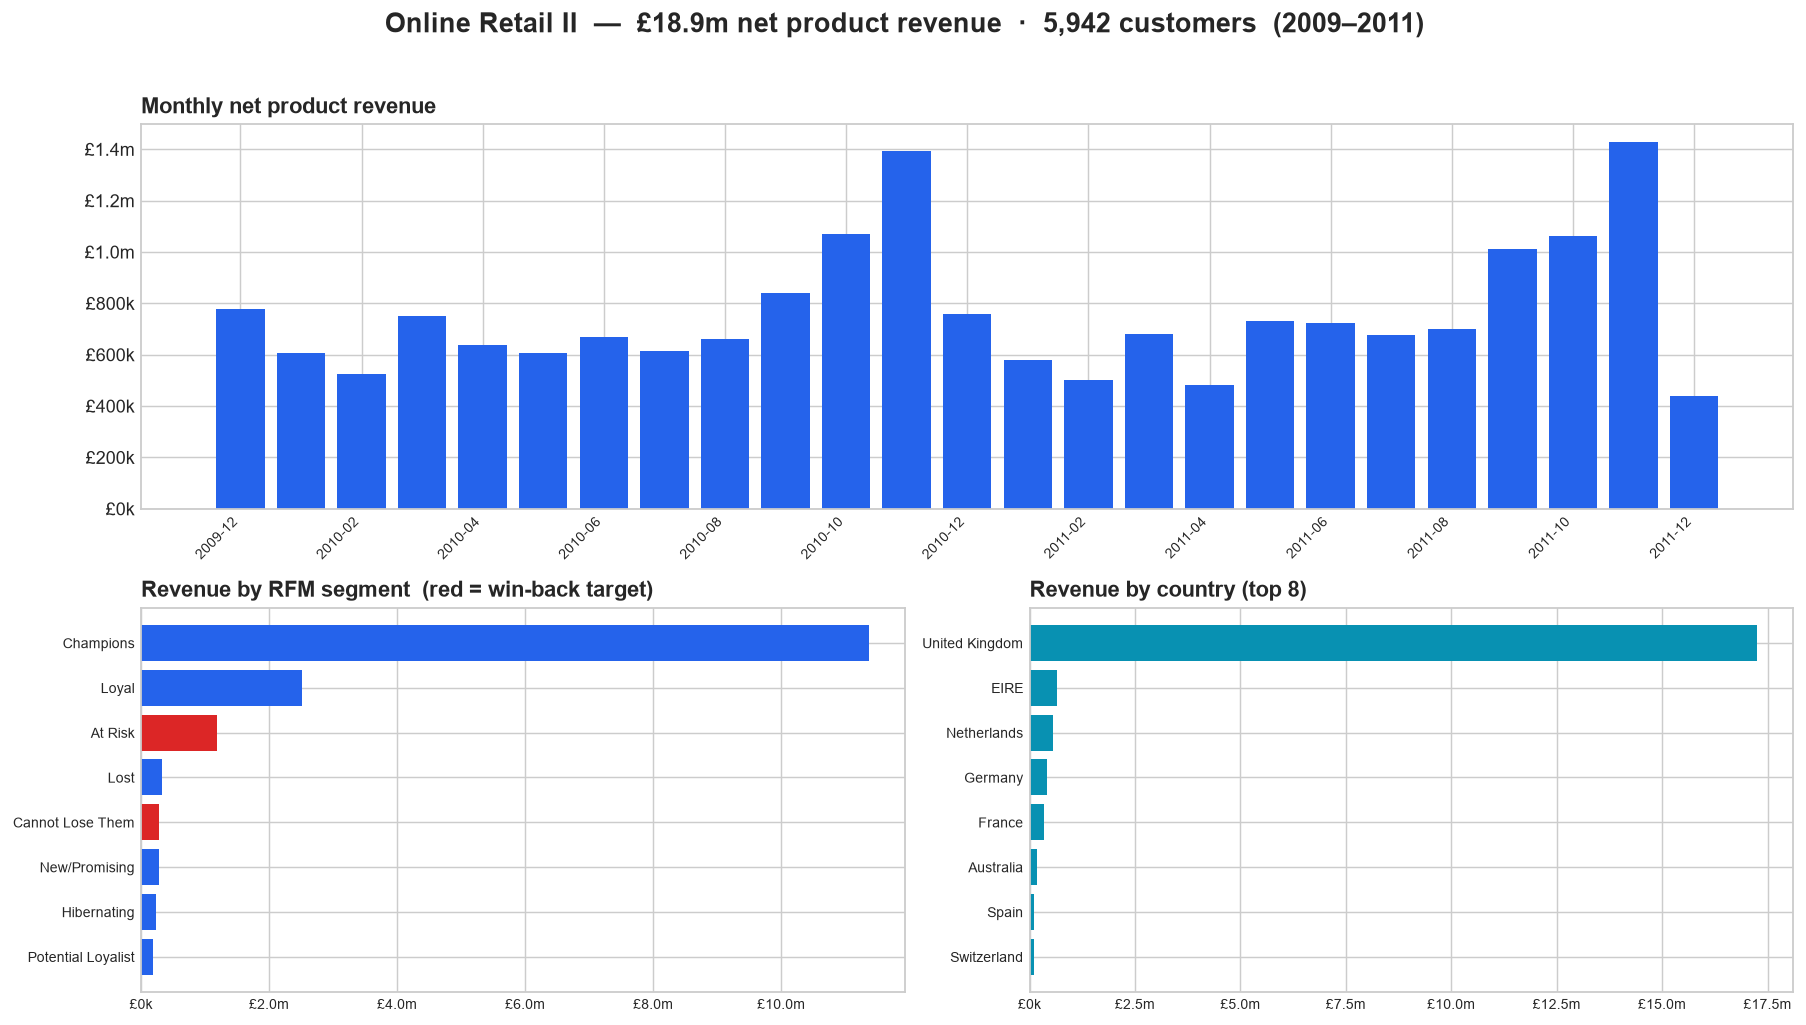
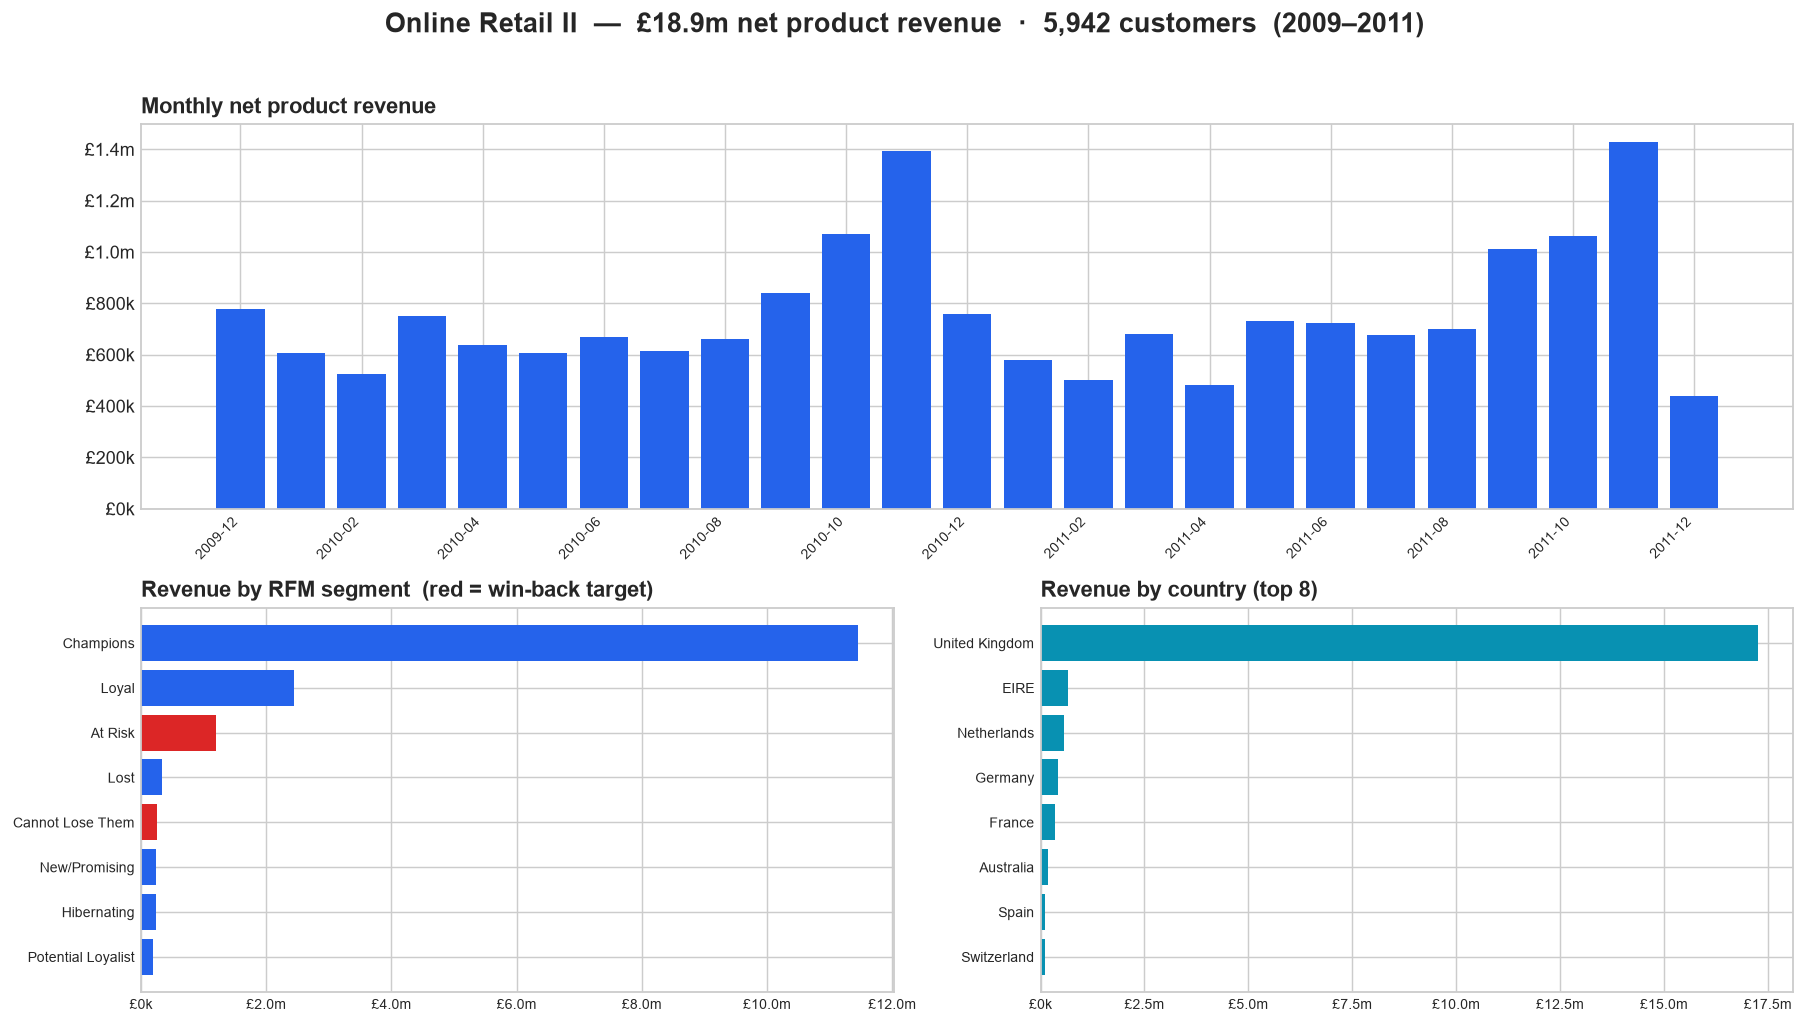
Make RFM segmentation deterministic and reconcile analysis figures
Add a unique tiebreaker (customer_sk) to the NTILE quintile ordering so
segment boundaries are stable across runs; update the written figures,
memo and dashboard to the reproducible output (win-back cohort = 839
customers, ~£1.45m).

diff --git a/local/rfm_analysis.py b/local/rfm_analysis.py
@@ -52,9 +52,11 @@ base AS (
 ),
 scored AS (
   SELECT *,
-    6 - NTILE(5) OVER (ORDER BY recency_days)              AS r,   -- recent -> 5
-    NTILE(5) OVER (ORDER BY frequency)                    AS f,
-    NTILE(5) OVER (ORDER BY monetary)                     AS m
+    -- customer_sk is a deterministic tiebreaker so quintile boundaries are
+    -- stable across runs (NTILE otherwise splits ties in engine order).
+    6 - NTILE(5) OVER (ORDER BY recency_days, customer_sk)  AS r,   -- recent -> 5
+    NTILE(5) OVER (ORDER BY frequency, customer_sk)         AS f,
+    NTILE(5) OVER (ORDER BY monetary, customer_sk)          AS m
   FROM base
 )
 SELECT *,

diff --git a/app/app.py b/app/app.py
@@ -35,9 +35,9 @@ with base as (
 ),
 scored as (
   select *,
-    6 - ntile(5) over (order by recency_days) as r,
-    ntile(5) over (order by frequency)        as f,
-    ntile(5) over (order by monetary)         as m
+    6 - ntile(5) over (order by recency_days, customer_sk) as r,
+    ntile(5) over (order by frequency, customer_sk)        as f,
+    ntile(5) over (order by monetary, customer_sk)         as m
   from base
 )
 select *,

diff --git a/local/make_dashboard.py b/local/make_dashboard.py
@@ -21,11 +21,13 @@ OUT = ROOT / "docs" / "dashboard.png"
 
 RFM = """
 with base as (
-  select date_diff('day', last_purchase_date,
+  select customer_sk,
+         date_diff('day', last_purchase_date,
            (select max(last_purchase_date)+interval 1 day from online_retail.dim_customer)) recency_days,
          lifetime_orders frequency, lifetime_net_revenue monetary
   from online_retail.dim_customer where lifetime_orders>0 and lifetime_net_revenue>0),
-scored as (select *, 6-ntile(5) over(order by recency_days) r, ntile(5) over(order by frequency) f from base)
+scored as (select *, 6-ntile(5) over(order by recency_days, customer_sk) r,
+                     ntile(5) over(order by frequency, customer_sk) f from base)
 select case
   when r>=4 and f>=4 then 'Champions' when r>=3 and f>=3 then 'Loyal'
   when r>=4 and f<=2 then 'New/Promising' when r=3 and f<=2 then 'Potential Loyalist'

diff --git a/analysis_answers.md b/analysis_answers.md
@@ -15,8 +15,8 @@ is attributable to a known customer and **£2.6m (14%)** is guest/unattributed.
 
 ### Insight 1 — Revenue is extremely concentrated: a small core carries the business
 - **Finding:** The top 20% of purchasing customers generate **76.7%** of net
-  revenue. One RFM segment — **Champions** (1,369 customers, ~23% of buyers) —
-  alone accounts for **69.5%** of revenue (£11.4m).
+  revenue. One RFM segment — **Champions** (1,435 customers, ~24% of buyers) —
+  alone accounts for **70.0%** of revenue (£11.5m).
 - **Method:** RFM scoring (Recency, Frequency, Monetary into quintiles) on
   `dim_customer`, plus a Pareto/quintile revenue-share calculation.
 - **Why care:** The commercial risk here is **retention, not acquisition**. If a
@@ -33,10 +33,10 @@ is attributable to a known customer and **£2.6m (14%)** is guest/unattributed.
   worth far more than the same % lift in new-customer count.
 
 ### Insight 3 — There is a large, recoverable "at-risk" cohort
-- **Finding:** **867 customers** fall into **At Risk + Cannot Lose Them** — people
-  who historically ordered **6+ times** and averaged **£1,691** net spend, but
-  whose **last purchase was ~12 months ago** (avg recency 362 days). Collectively
-  they represent **£1.47m** of historical revenue that is quietly lapsing.
+- **Finding:** **839 customers** fall into **At Risk + Cannot Lose Them** — people
+  who historically ordered **6+ times** and averaged **£1,728** net spend, but
+  whose **last purchase was ~12 months ago** (avg recency 361 days). Collectively
+  they represent **£1.45m** of historical revenue that is quietly lapsing.
 - **Method:** RFM recency segmentation — high Frequency/Monetary, low Recency.
 - **Why care:** This is the single most **actionable** finding: a specific,
   sizeable, previously-proven set of buyers, addressable by name, drifting away.
@@ -45,12 +45,12 @@ is attributable to a known customer and **£2.6m (14%)** is guest/unattributed.
 
 ## 2. The recommendation — a targeted win-back campaign
 
-**Run a win-back campaign against the 867 lapsed high-value customers
+**Run a win-back campaign against the 839 lapsed high-value customers
 (At Risk + Cannot Lose Them).**
 
-- **Target segment (who, and how identified):** The 867 customers scored
+- **Target segment (who, and how identified):** The 839 customers scored
   RFM-low on Recency but high on Frequency & Monetary — i.e. proven repeat buyers
-  (avg 6.1 lifetime orders, avg £1,691 net spend) who have not ordered in ~12
+  (avg 6.2 lifetime orders, avg £1,728 net spend) who have not ordered in ~12
   months. Pulled directly from `online_retail.rfm` where
   `segment IN ('At Risk','Cannot Lose Them')`.
 - **Mechanic / offer:** A personalised win-back email (and where a phone/account
@@ -59,15 +59,15 @@ is attributable to a known customer and **£2.6m (14%)** is guest/unattributed.
   weeks* (or free postage, which this business already itemises). Incentive is
   paid only on redemption, so cost scales with success.
 - **Expected commercial impact (with assumptions stated):** Win-back campaigns to
-  *known, previously-active* buyers typically reactivate **8–12%**. On 867
-  targets that is **~70–104 reactivations**. Segment average order value is
-  **~£277** (£1,691 ÷ 6.1 orders). A conservative "one order back" gives
-  **£19k–£29k** of incremental revenue in the first ~8 weeks. If even a third of
+  *known, previously-active* buyers typically reactivate **8–12%**. On 839
+  targets that is **~67–101 reactivations**. Segment average order value is
+  **~£280** (£1,728 ÷ 6.2 orders). A conservative "one order back" gives
+  **£19k–£28k** of incremental revenue in the first ~8 weeks. If even a third of
   reactivations resume their historical cadence, the annualised value runs into
   **six figures** against a near-zero marginal email cost. *Assumptions: 8–12%
-  reactivation, £277 AOV held, 15% discount on redeemed orders only.*
+  reactivation, £280 AOV held, 15% discount on redeemed orders only.*
 - **Measurement (how we'd know within N weeks):** **Randomised holdout.** Hold
-  back 20% of the 867 as an untouched control; send to the other 80%. Over an
+  back 20% of the 839 as an untouched control; send to the other 80%. Over an
   **8-week** window compare, treatment vs control: (1) reactivation rate
   (% placing ≥1 order), (2) revenue per targeted customer, (3) margin after
   discount. **Success = treatment reactivation rate exceeds control by ≥3–5pp
@@ -142,10 +142,10 @@ is attributable to a known customer and **£2.6m (14%)** is guest/unattributed.
 > is a **repeat-purchase business** (76% of buyers reorder). That reframes the
 > priority as **retention over acquisition**.
 >
-> We found **867 previously high-value customers — worth £1.47m historically —
+> We found **839 previously high-value customers — worth £1.45m historically —
 > who have stopped ordering in the last year.** 
 >
-> **Recommended next step:** a targeted win-back campaign to those 867, measured
+> **Recommended next step:** a targeted win-back campaign to those 839, measured
 > against a randomised holdout so we can prove the incremental effect within 8
 > weeks. Near-zero cost, and even a conservative 10% reactivation returns tens of
 > thousands in the first two months. We can launch this week.

diff --git a/write_up.md b/write_up.md
@@ -42,28 +42,28 @@ tests that stop bad data reaching a report.
 **Net product revenue over the two years: £18.9m.** Three findings stand out:
 
 1. **The business runs on a small core.** The **top 20% of customers drive 77%**
-   of revenue. One group — our "Champions" — is **~23% of buyers but 70% of
+   of revenue. One group — our "Champions" — is **~24% of buyers but 70% of
    revenue**.
 2. **Customers come back.** **76% of buyers reorder.** This is a repeat-purchase
    business, so the growth lever is keeping people buying, not just finding new
    ones.
-3. **A valuable group is quietly leaving.** **867 customers** who used to order
+3. **A valuable group is quietly leaving.** **839 customers** who used to order
    6+ times and spend ~£1,700 each **haven't bought in about a year** — roughly
-   **£1.47m** of historical revenue drifting out the door.
+   **£1.45m** of historical revenue drifting out the door.
 
 ---
 
 ## 4. The recommendation
 
-**Win back those 867 lapsed high-value customers.**
+**Win back those 839 lapsed high-value customers.**
 
-- **Who:** the 867 proven repeat buyers who've gone quiet (~12 months silent).
+- **Who:** the 839 proven repeat buyers who've gone quiet (~12 months silent).
 - **What:** a personalised win-back email referencing what they used to buy, with
   a short-dated incentive (e.g. *15% off your next order over £150*).
 - **Why it's low-risk:** email costs almost nothing, and the discount is only paid
   when someone actually comes back.
-- **Likely payoff:** a conservative **10% reactivation** is ~87 customers and
-  **£19k–£29k in the first two months**, with much more if they resume their old
+- **Likely payoff:** a conservative **10% reactivation** is ~84 customers and
+  **£19k–£28k in the first two months**, with much more if they resume their old
   buying rhythm.
 
 ---

diff --git a/README.md b/README.md
@@ -13,9 +13,9 @@ analysis is reproducible on any laptop in about a minute.
 
 Over ~2 years this UK wholesaler did **£18.9m** net product revenue. It's a
 **repeat-purchase business** (76% of buyers reorder) where the **top 20% of
-customers drive 77% of revenue**. The actionable finding: **867 previously
-high-value customers (worth £1.47m) have gone quiet for ~12 months.**
-→ **Recommendation:** a win-back campaign to those 867, measured against a
+customers drive 77% of revenue**. The actionable finding: **839 previously
+high-value customers (worth £1.45m) have gone quiet for ~12 months.**
+→ **Recommendation:** a win-back campaign to those 839, measured against a
 randomised holdout. See [`analysis_answers.md`](analysis_answers.md) and
 [`write_up.md`](write_up.md).
 
@@ -161,6 +161,6 @@ All figures in the analysis come from `local/rfm_analysis.py` →
 | Known customers | 5,942 |
 | Repeat-purchase rate | 75.6% |
 | Top-20% customer revenue share | 76.7% |
-| Win-back target (At Risk + Cannot Lose Them) | 867 customers, £1.47m historical |
+| Win-back target (At Risk + Cannot Lose Them) | 839 customers, £1.45m historical |
 
 Run the three `python` commands in Option A and you'll get these exact numbers.